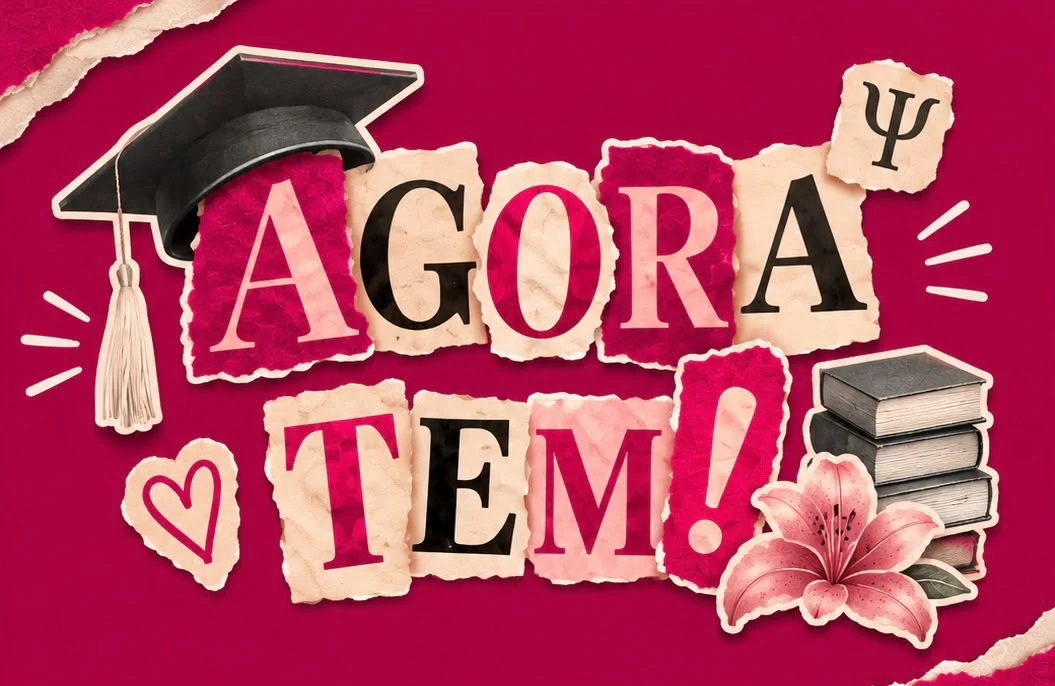
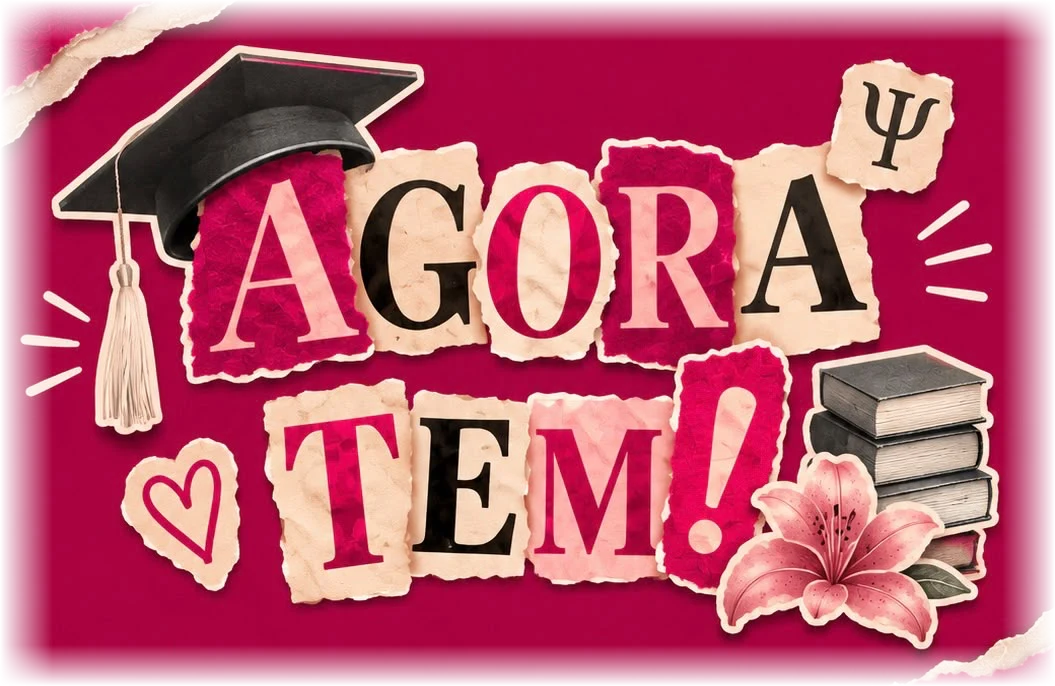
Convite: bordas das imagens esfumadas e enquadramento para celular
As bordas do "Agora tem!" e da foto vêm esfumadas no próprio arquivo
(transparência no WebP), então não aparece mais o retângulo com tom
diferente do fundo. No celular a pergunta vira três linhas com letra
grande, o "Agora tem!" ocupa a largura da tela com "eu sabia!" e a
data, e o primeiro bilhete do convite cola sobre a base da foto. O
modo "reduzir movimento" para de repetir animações infinitas.

Changed region(s): [[0.0, 0.0, 1.0, 1.0]]

diff --git a/ferramentas/convite-formatura/css/convite.css b/ferramentas/convite-formatura/css/convite.css
@@ -5,7 +5,7 @@
   --magenta: #b6275d;
   --magenta-escuro: #a90240;
   --vinho: #7d1638;
-  --papel: #f6dcd8;
+  --papel: #f8e0da;
   --bilhete: #f8e3d3;
   --bilhete-rosa: #f3c9cf;
   --creme: #fff3ec;
@@ -36,6 +36,9 @@ button { font: inherit; cursor: pointer; }
 .miolo { position: relative; z-index: 1; text-align: center; padding: 24px; width: min(980px, 100%); }
 .pergunta { margin: 0; font: 400 clamp(38px, 8.4vw, 104px)/1.12 var(--caixa); color: var(--creme); letter-spacing: 0.02em; }
 .pergunta .linha { display: block; white-space: nowrap; }
+/* No computador "JÁ TEM" e "COMPROMISSO" dividem a mesma linha. */
+.pergunta .l1, .pergunta .l2 { display: inline-block; }
+.pergunta .l1 { margin-right: 0.3em; }
 .pergunta .letra { display: inline-block; opacity: 0; transform: translateY(18px) rotate(-8deg) scale(0.7); animation: escrever 0.5s cubic-bezier(0.2, 1.4, 0.4, 1) forwards; animation-delay: calc(var(--n) * 55ms + 300ms); }
 .pergunta .espaco { display: inline-block; width: 0.32em; }
 @keyframes escrever { to { opacity: 1; transform: none; } }
@@ -63,10 +66,18 @@ button { font: inherit; cursor: pointer; }
 .cortina.aberta { clip-path: circle(150vmax at var(--x) var(--y)); }
 
 /* ---------------- Cena 2: agora tem ---------------- */
-.cena-agora { background: var(--magenta-escuro); display: grid; place-items: center; align-content: center; gap: 30px; padding: 20px; overflow: hidden; }
+.cena-agora { background: var(--magenta-escuro); display: grid; place-items: center; align-content: center; gap: 18px; padding: 20px; overflow: hidden; }
 .cena-agora.ativa { z-index: 21; }
 .agora-tem { position: relative; margin: 0; width: min(880px, 94vw); max-height: 70vh; aspect-ratio: 1055 / 686; }
-.agora-tem img { width: 100%; height: 100%; object-fit: contain; display: block; border-radius: 6px; }
+/* As bordas da imagem já vêm esfumadas (transparência gravada no WebP):
+   a compressão mexia no tom do magenta e o retângulo aparecia. */
+.agora-tem img { width: 100%; height: 100%; object-fit: contain; display: block; }
+.agora-antes, .agora-depois { margin: 0; color: var(--creme); font-family: var(--mao); text-align: center; opacity: 0; }
+.agora-antes { font-size: clamp(34px, 6vw, 58px); transform: rotate(-4deg); }
+.agora-depois { font-size: clamp(24px, 3.4vw, 34px); }
+.cena-agora.ativa .agora-antes { animation: surgir-giro 0.6s cubic-bezier(0.2, 1.5, 0.4, 1) forwards 0.85s; }
+.cena-agora.ativa .agora-depois { animation: surgir 0.5s ease forwards 1.1s; }
+@keyframes surgir-giro { from { opacity: 0; transform: translateY(16px) rotate(6deg) scale(0.6); } to { opacity: 1; transform: rotate(-4deg); } }
 .cena-agora.ativa .agora-tem { animation: carimbo 0.75s cubic-bezier(0.2, 1.5, 0.35, 1) both 0.15s, flutuar 5s ease-in-out infinite 1.2s; }
 @keyframes carimbo {
   0% { transform: scale(2.6) rotate(-14deg); opacity: 0; filter: blur(6px); }
@@ -118,7 +129,9 @@ button { font: inherit; cursor: pointer; }
 }
 
 .retrato { position: relative; margin: 0; --giro: -1.5deg; }
-.retrato img { width: 100%; height: auto; display: block; -webkit-mask-image: linear-gradient(to right, #000 82%, transparent 99%); mask-image: linear-gradient(to right, #000 82%, transparent 99%); filter: drop-shadow(0 18px 24px rgba(90, 20, 40, 0.18)); }
+/* A foto já vem com as quatro bordas esfumadas no próprio arquivo: o papel
+   da arte não tem o tom do fundo da página, então ela se mistura. */
+.retrato img { width: 100%; height: auto; display: block; }
 .seta { position: absolute; right: -54px; top: 9%; width: 130px; fill: none; stroke: var(--vinho); stroke-width: 5; stroke-linecap: round; stroke-linejoin: round; stroke-dasharray: 220; stroke-dashoffset: 220; }
 .cena-convite.ativa .seta { animation: tracar 0.9s ease forwards 1.5s; }
 @keyframes tracar { to { stroke-dashoffset: 0; } }
@@ -196,17 +209,29 @@ button { font: inherit; cursor: pointer; }
 
 /* ---------------- Telas pequenas ---------------- */
 @media (max-width: 880px) {
-  .convite { grid-template-columns: minmax(0, 1fr); }
-  .retrato { width: min(360px, 78vw); margin: 0 auto; }
+  .convite { grid-template-columns: minmax(0, 1fr); gap: 0; }
+  .retrato { width: min(340px, 86vw); margin: 0 auto; }
   .seta { display: none; }
-  .bilhetes { grid-template-columns: minmax(0, 1fr); padding-top: 0; }
+  /* O primeiro bilhete "cola" por cima da base da foto, como na arte. */
+  .bilhetes { position: relative; z-index: 2; grid-template-columns: minmax(0, 1fr); padding-top: 0; margin-top: -64px; }
   .bilhete-grande { grid-row: auto; }
   .rasgo-a { width: 220px; height: 110px; }
   .rasgo-b { width: 260px; height: 120px; }
 }
+@media (max-width: 600px) {
+  /* Celular: três linhas e letra grande, ocupando a largura da tela. */
+  .pergunta { font-size: min(15vw, 9vh); line-height: 1.06; }
+  .pergunta .l1, .pergunta .l2 { display: block; }
+  .pergunta .l1 { margin-right: 0; }
+  .respostas { gap: 14px; margin-top: 40px; }
+  .botao-sim, .botao-nao { min-width: 124px; padding: 16px 28px; font-size: 22px; }
+  .recadinho { font-size: 22px; }
+  .cena-agora { gap: 14px; padding: 16px 0; }
+  .agora-tem { width: 112vw; max-height: none; }
+  .agora-antes { font-size: 46px; }
+  .agora-depois { font-size: 28px; }
+}
 @media (max-width: 560px) {
-  .respostas { gap: 14px; }
-  .botao-sim, .botao-nao { min-width: 112px; padding: 13px 24px; font-size: 20px; }
   .bilhete { padding: 28px 20px 20px; }
   .contagem { gap: 6px; }
   .contagem span { font-size: 17px; }
@@ -214,5 +239,6 @@ button { font: inherit; cursor: pointer; }
 }
 
 @media (prefers-reduced-motion: reduce) {
-  *, *::before, *::after { animation-duration: 0.01ms !important; animation-delay: 0ms !important; transition-duration: 0.01ms !important; }
+  /* Sem repetir: animação infinita com 0,01 ms vira um pisca-pisca. */
+  *, *::before, *::after { animation-duration: 0.01ms !important; animation-delay: 0ms !important; animation-iteration-count: 1 !important; transition-duration: 0.01ms !important; }
 }

diff --git a/ferramentas/convite-formatura/index.html b/ferramentas/convite-formatura/index.html
@@ -27,8 +27,9 @@
     <canvas class="granulado" id="granulado" aria-hidden="true"></canvas>
     <div class="miolo">
       <h1 class="pergunta" id="pergunta" aria-label="Já tem compromisso dia 20/12/26?">
-        <span class="linha" data-texto="JÁ TEM COMPROMISSO"></span>
-        <span class="linha" data-texto="DIA 20/12/26?"></span>
+        <span class="linha l1" data-texto="JÁ TEM"></span>
+        <span class="linha l2" data-texto="COMPROMISSO"></span>
+        <span class="linha l3" data-texto="DIA 20/12/26?"></span>
       </h1>
       <div class="respostas" id="respostas">
         <button class="botao-sim" id="botao-sim" type="button">Sim</button>
@@ -42,9 +43,11 @@
   <!-- Cena 2: agora tem! -->
   <section class="cena cena-agora" id="cena-agora" aria-label="Agora tem!" aria-hidden="true">
     <div class="recortes" id="recortes" aria-hidden="true"></div>
+    <p class="agora-antes" aria-hidden="true">eu sabia!</p>
     <figure class="agora-tem">
       <img src="img/agora-tem.webp" width="1055" height="686" alt="Agora tem! Escrito com letras recortadas, com capelo de formatura, livros, um lírio e o símbolo da psicologia.">
     </figure>
+    <p class="agora-depois">20 de dezembro, às 20h</p>
     <button class="seguir" id="seguir" type="button"><span class="carga" aria-hidden="true"></span><span class="rotulo">então anota aí</span></button>
   </section>
 
